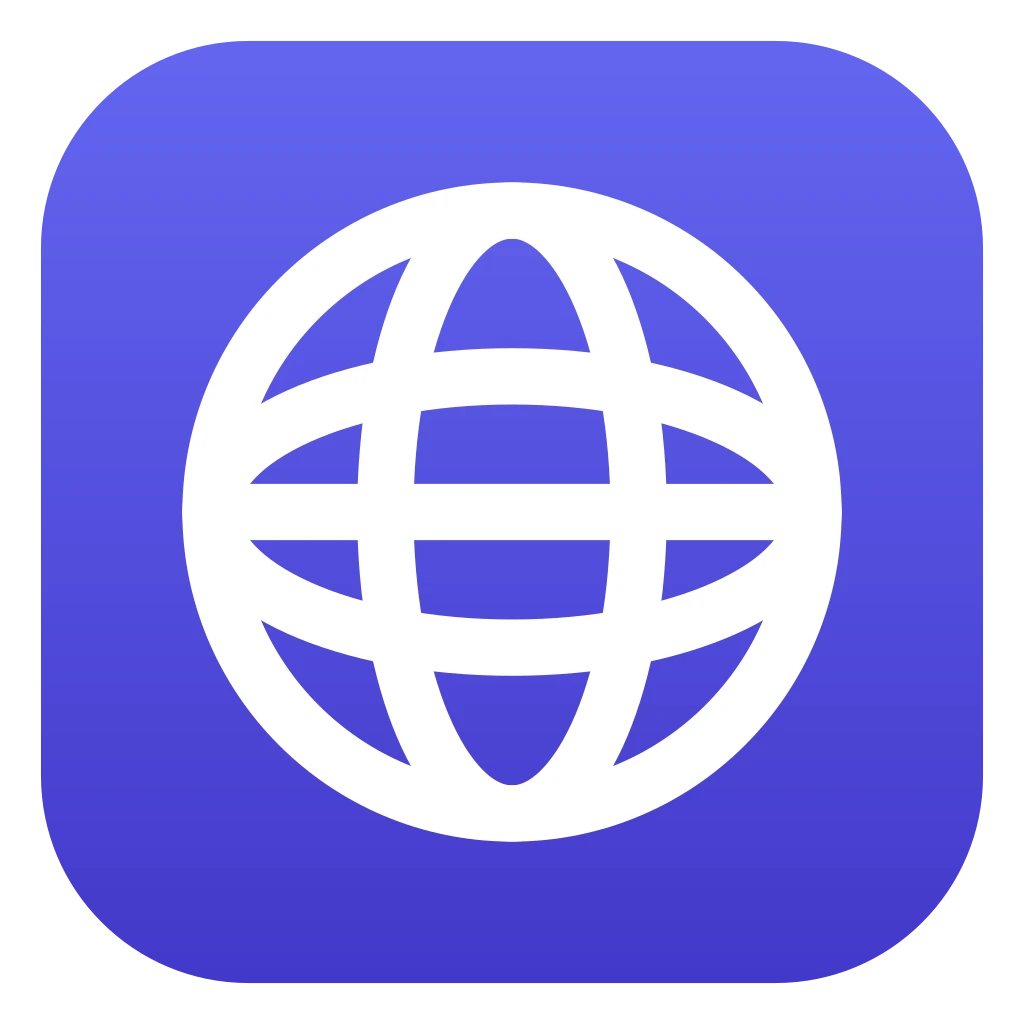
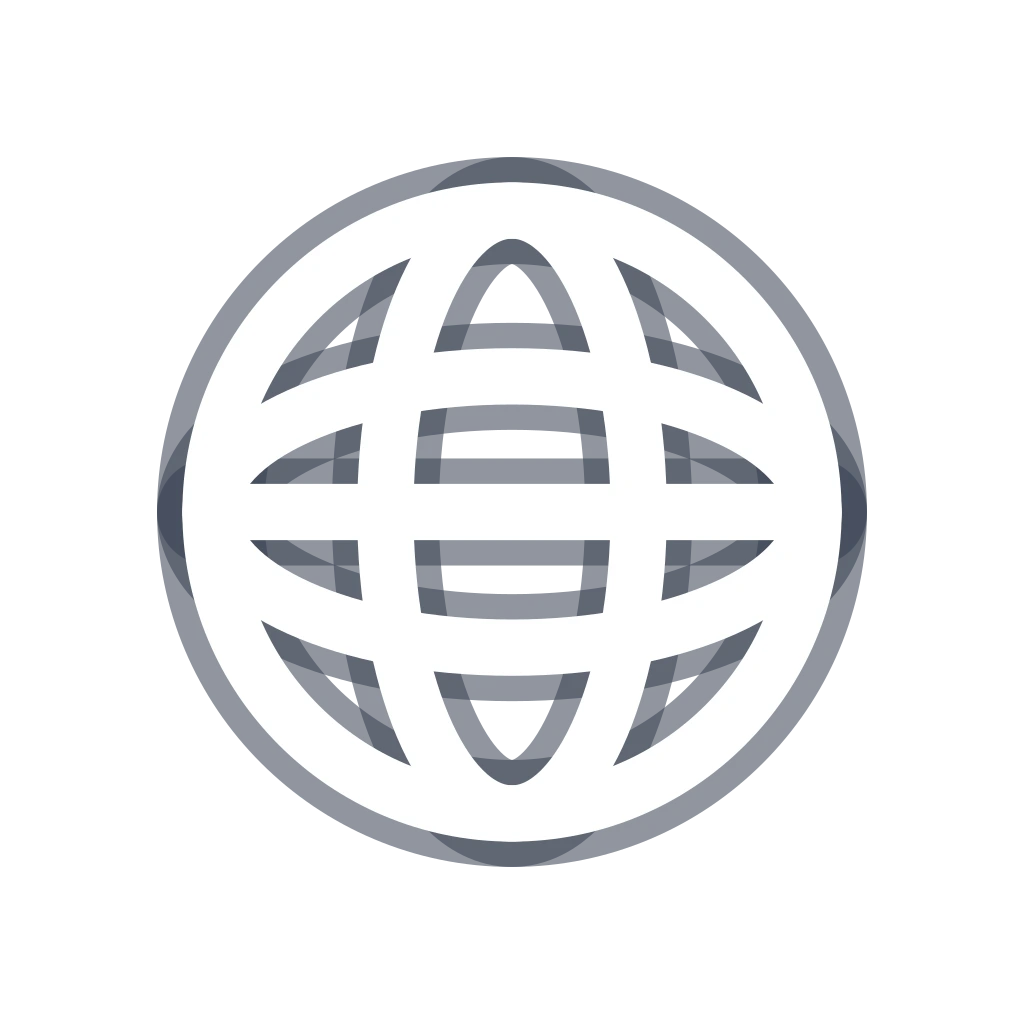
feat: 更新日记、关于页与首页主标题样式
- 日记：新增一条「我怎么知道」（2026-09-29 17:06）
- 关于页：插入玩偶梗图，并把挤在一起的自述拆成独立段落
  （Markdown 里单个换行会被合并成空格，原来四行文字渲染成了一大段）
- 导航栏：移除「链接」下拉里的 RSS 项
- favicon：去掉蓝色圆角底板，只保留白色地球仪线条（改为透明底）
- 顶栏图标：同样改为透明底，并加一圈半透明深色描边
  （纯白线条在浅色导航栏背景下会看不清）
- 首页主标题：文案改为 fantasy1161，换成淡蓝色 #a5d8ff 与另一套字体栈
- 站点数据目录不再保留根目录的原图

diff --git a/src/config/siteConfig.ts b/src/config/siteConfig.ts
@@ -5,7 +5,7 @@ const SITE_LANG = "zh_CN"; // 语言代码，例如：'en', 'zh_CN', 'ja' 等。
 
 export const siteConfig: SiteConfig = {
 	title: "幻想1161",
-	subtitle: "幻想1161 的个人博客",
+	subtitle: "幻想1161",
 	siteURL: "https://TODO-your-domain.com/", // TODO: 替换成你自己的域名，必须以斜杠结尾
 	siteStartDate: "2026-09-21", // 站点开始运行日期，用于站点统计组件计算运行天数
 	timeZone: "Asia/Shanghai", // 文章日期使用的 IANA 时区，可改为 Asia/Tokyo、Europe/Berlin 等
@@ -138,14 +138,10 @@ export const siteConfig: SiteConfig = {
 
 		homeText: {
 			enable: true,
-			title: "幻想1161",
+			title: "fantasy1161",
 			switchable: true,
 
-			subtitle: [
-				"想到什么就写什么",
-				"记录折腾过的技术和踩过的坑",
-				"欢迎随便逛逛",
-			],
+			subtitle: ["想到什么就写什么"],
 			typewriter: {
 				enable: true, // 启用副标题打字机效果
 

diff --git a/src/data/friends.ts b/src/data/friends.ts
@@ -22,7 +22,7 @@ export const friendsData: FriendItem[] = [
 		id: 2,
 		title: "Mizuki",
 		imgurl: "https://avatars.githubusercontent.com/u/152655207?v=4&s=640",
-		desc: "本站主题的上游项目，界面和大部分功能都来自它。",
+		desc: "本站主题的上游项目。",
 		siteurl: "https://github.com/LyraVoid/Mizuki",
 		tags: ["主题", "开源"],
 	},
@@ -30,7 +30,7 @@ export const friendsData: FriendItem[] = [
 		id: 3,
 		title: "幻想1161 的 B 站",
 		imgurl: "https://www.bilibili.com/favicon.ico",
-		desc: "偶尔会在上面发点东西。",
+		desc: "主要发几个虫子。",
 		siteurl: "https://space.bilibili.com/101263758",
 		tags: ["个人", "视频"],
 	},

diff --git a/src/config/profileConfig.ts b/src/config/profileConfig.ts
@@ -4,7 +4,7 @@ import type { ProfileConfig } from "../types/config";
 export const profileConfig: ProfileConfig = {
 	avatar: "assets/images/avatar.webp", // 相对于 /src 目录。如果以 '/' 开头，则相对于 /public 目录
 	name: "幻想1161",
-	bio: "记录技术折腾、日常和一些没什么用的想法。",
+	bio: "你是准备吗？",
 	typewriter: {
 		enable: true, // 启用个人简介打字机效果
 		speed: 80, // 打字速度（毫秒）

diff --git a/src/config/announcementConfig.ts b/src/config/announcementConfig.ts
@@ -3,7 +3,7 @@ import type { AnnouncementConfig } from "../types/config";
 // 公告栏配置
 export const announcementConfig: AnnouncementConfig = {
 	title: "", // 公告标题，填空使用i18n字符串Key.announcement
-	content: "本站刚换掉模版，内容还在慢慢补。", // 公告内容
+	content: "X X XXX", // 公告内容
 	closable: true, // 允许用户关闭公告
 	link: {
 		enable: true, // 启用链接

diff --git a/src/data/diary.ts b/src/data/diary.ts
@@ -20,7 +20,13 @@ export interface DiaryItem {
 	tags?: string[];
 }
 
-const diaryData: DiaryItem[] = [];
+const diaryData: DiaryItem[] = [
+	{
+		id: 1,
+		content: "我怎么知道",
+		date: "2026-09-29T17:06:00+08:00",
+	},
+];
 
 // 获取日记列表（按时间倒序）
 export const getDiaryList = (limit?: number) => {

diff --git a/src/config/navBarConfig.ts b/src/config/navBarConfig.ts
@@ -151,11 +151,6 @@ export const navBarConfig: NavBarConfig = {
 					external: true,
 					icon: "fa7-brands:github",
 				},
-				{
-					name: "RSS",
-					url: "/rss.xml",
-					icon: "material-symbols:rss-feed",
-				},
 			],
 		},
 

diff --git a/src/content/spec/about.md b/src/content/spec/about.md
@@ -1,23 +1,26 @@
 ## 关于我
 
-这里是 **幻想1161** 的个人博客。
+这里是 **幻想1161** 的个人网站。
 
-平时喜欢折腾各种技术和工具，踩完坑之后总想着「这个得记下来」，于是就有了这个站点。内容大概会围绕技术折腾、日常随想，以及一些没什么用但挺有意思的东西。
+中南大学大三 CS 在读，主要写 Cpp 和 py，Java 学习中。学艺不精，这个网页全是用现有的模版套出来的，但是也花了我不少时间（真的吗
+
+音游主修 Arcaea(13.201) 和 Maimai DX（16291），可以在 IP 归属地找我线下约勤。
+
+Geometry Dash 一千八百多小时坐牢记录，除此之外还玩玩 sl 尖塔，hk12，雀，tr。
+
+没了。
+
+![一只看起来很无奈的毛绒玩偶，配字 "I just your took ability for read to 5 seconds"](/images/about/20260929-165311.png)
+
+## linktree
+
+- QQ：1191247557
+- Bilibili：[space.bilibili.com/101263758](https://space.bilibili.com/101263758)
+- email：gongjiabin1@outlook.com
+- github：[https://github.com/HUANXIANG1161](https://github.com/HUANXIANG1161)
 
 ## 关于本站
 
-站点用 [Astro](https://astro.build/) 构建，基于 [LyraVoid/Mizuki](https://github.com/LyraVoid/Mizuki) 主题改造。这个主题本身是开源的，感兴趣可以去看看：
+站点用 [Astro](https://astro.build/) 构建，基于 [LyraVoid/Mizuki](https://github.com/LyraVoid/Mizuki) 主题改造：
 
 ::github{repo="LyraVoid/Mizuki"}
-
-在此基础上做了这些调整：
-
-- 清理掉了模版遗留的示例内容和未启用的功能页面
-- 站点信息、个人资料全部换成了自己的
-- 修掉了构建时的类型报错
-
-## 联系方式
-
-- Bilibili：[space.bilibili.com/101263758](https://space.bilibili.com/101263758)
-
-如果这里的某篇文章正好帮到你，那就太好了。

diff --git a/src/content/posts/astro-font-never.md b/src/content/posts/astro-font-never.md
@@ -2,8 +2,8 @@
 title: Astro Font API 在关闭自定义字体时的类型错误
 published: 2026-09-29
 description: 记录一次 astro check 报出的 "Type 'string' is not assignable to type 'never'"，原因在 Astro Font API 生成的 CssVariable 类型会在 fonts 为空数组时退化成 never。
-tags: [Astro, TypeScript, 踩坑]
-category: 折腾记录
+tags: [Astro, TypeScript]
+category: 记录
 draft: false
 ---
 
